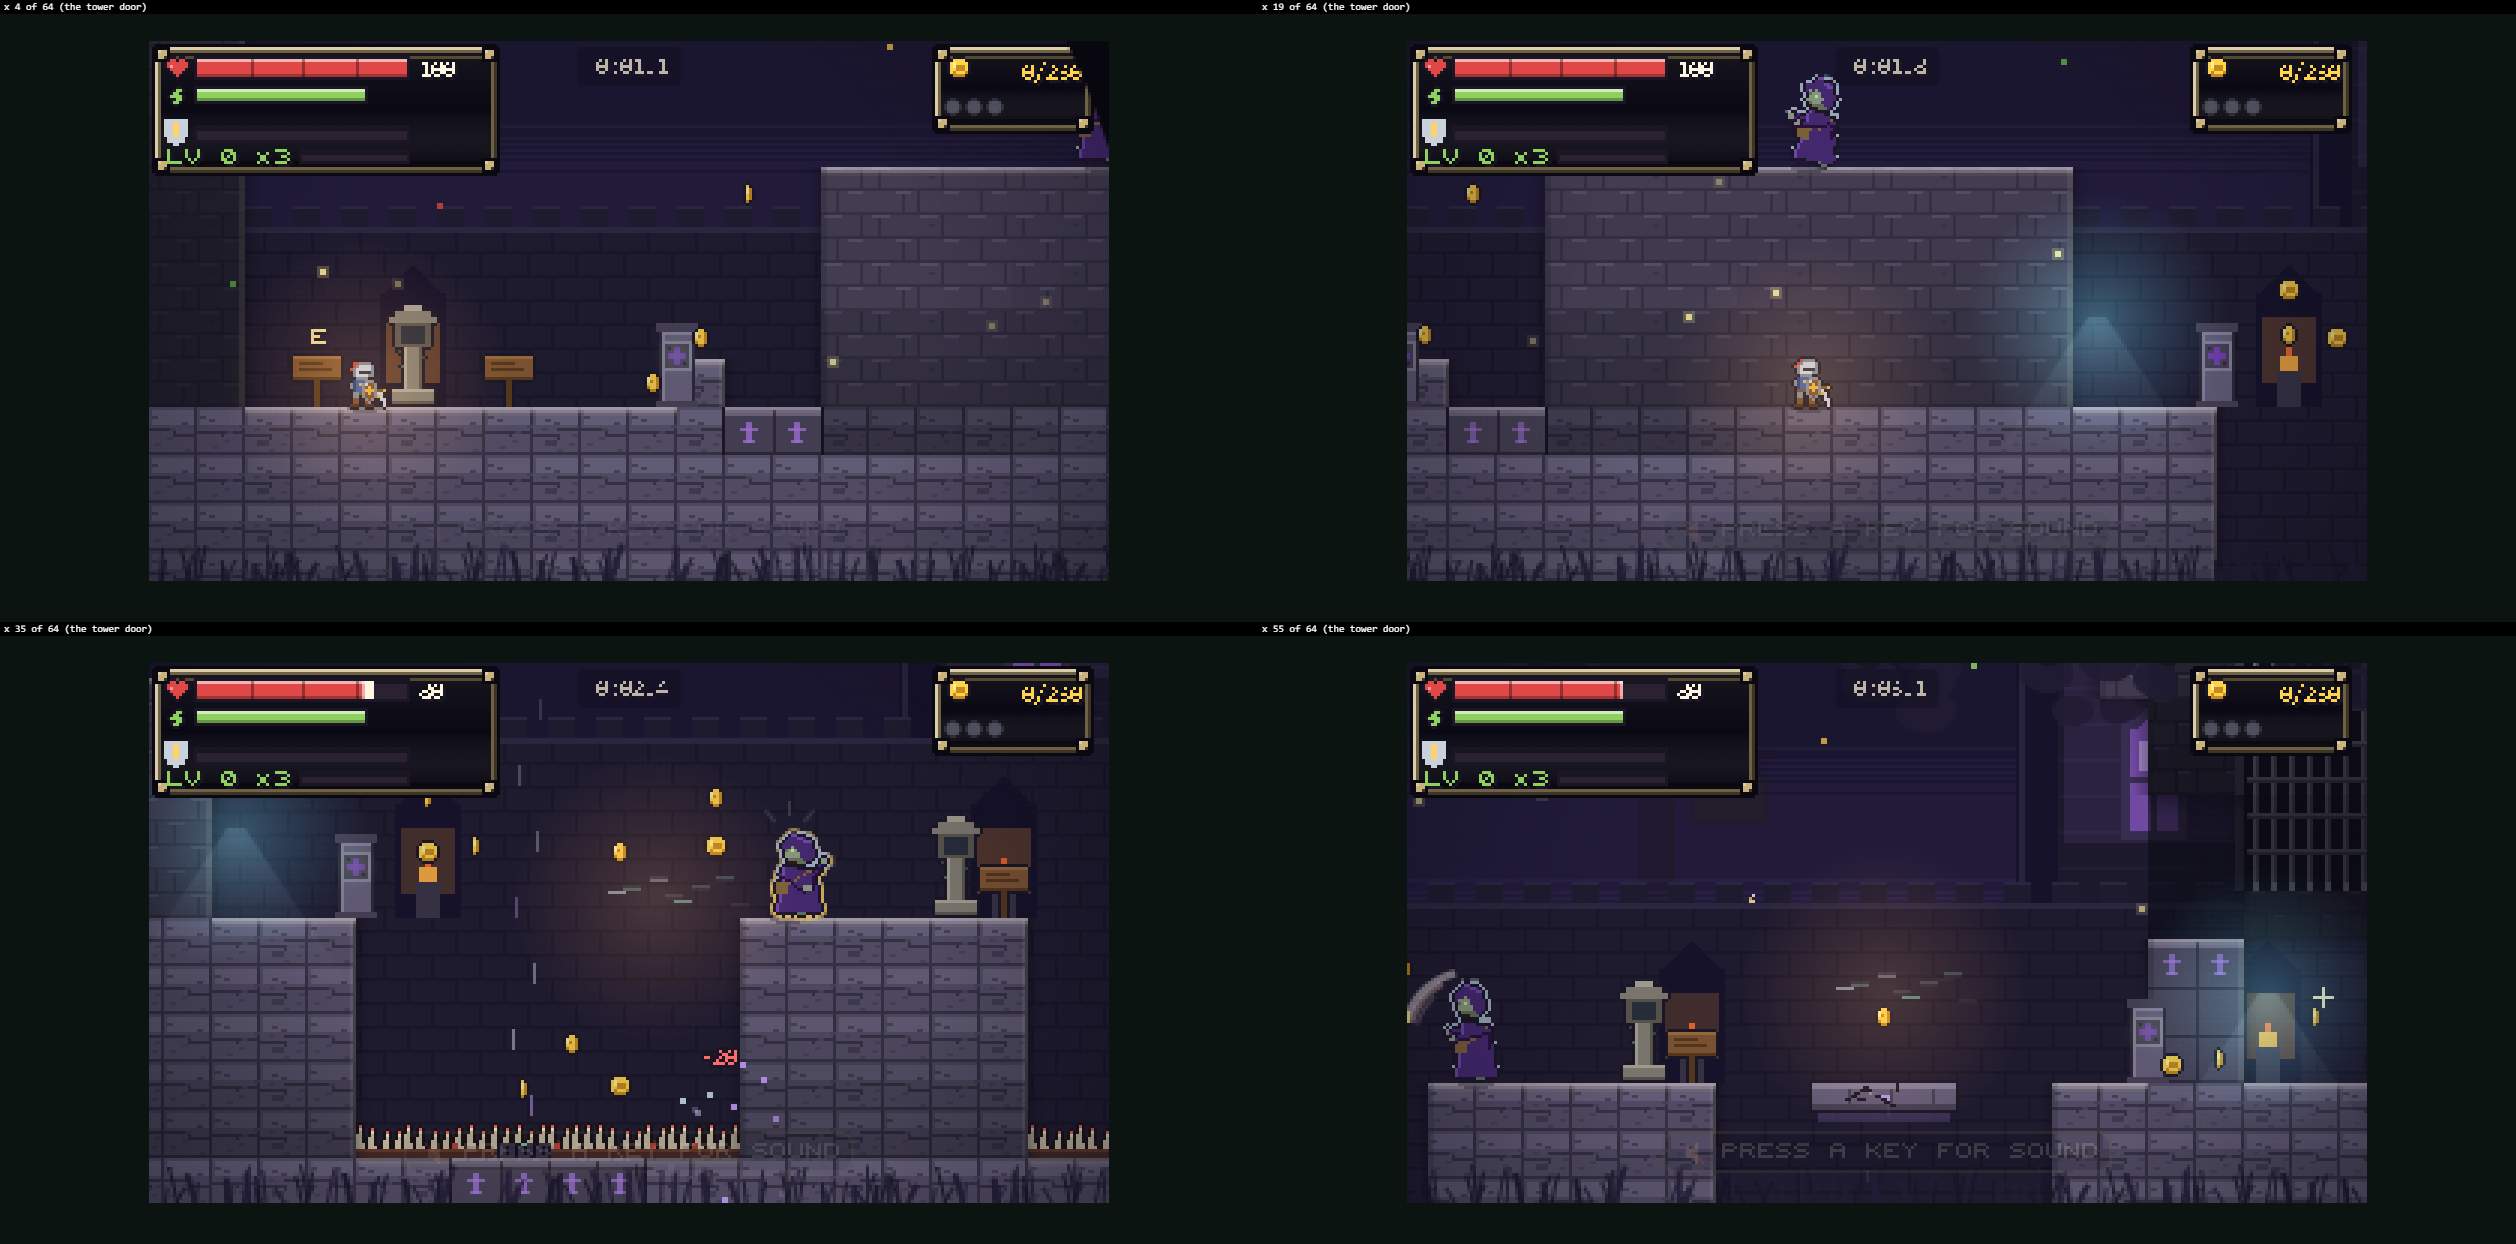
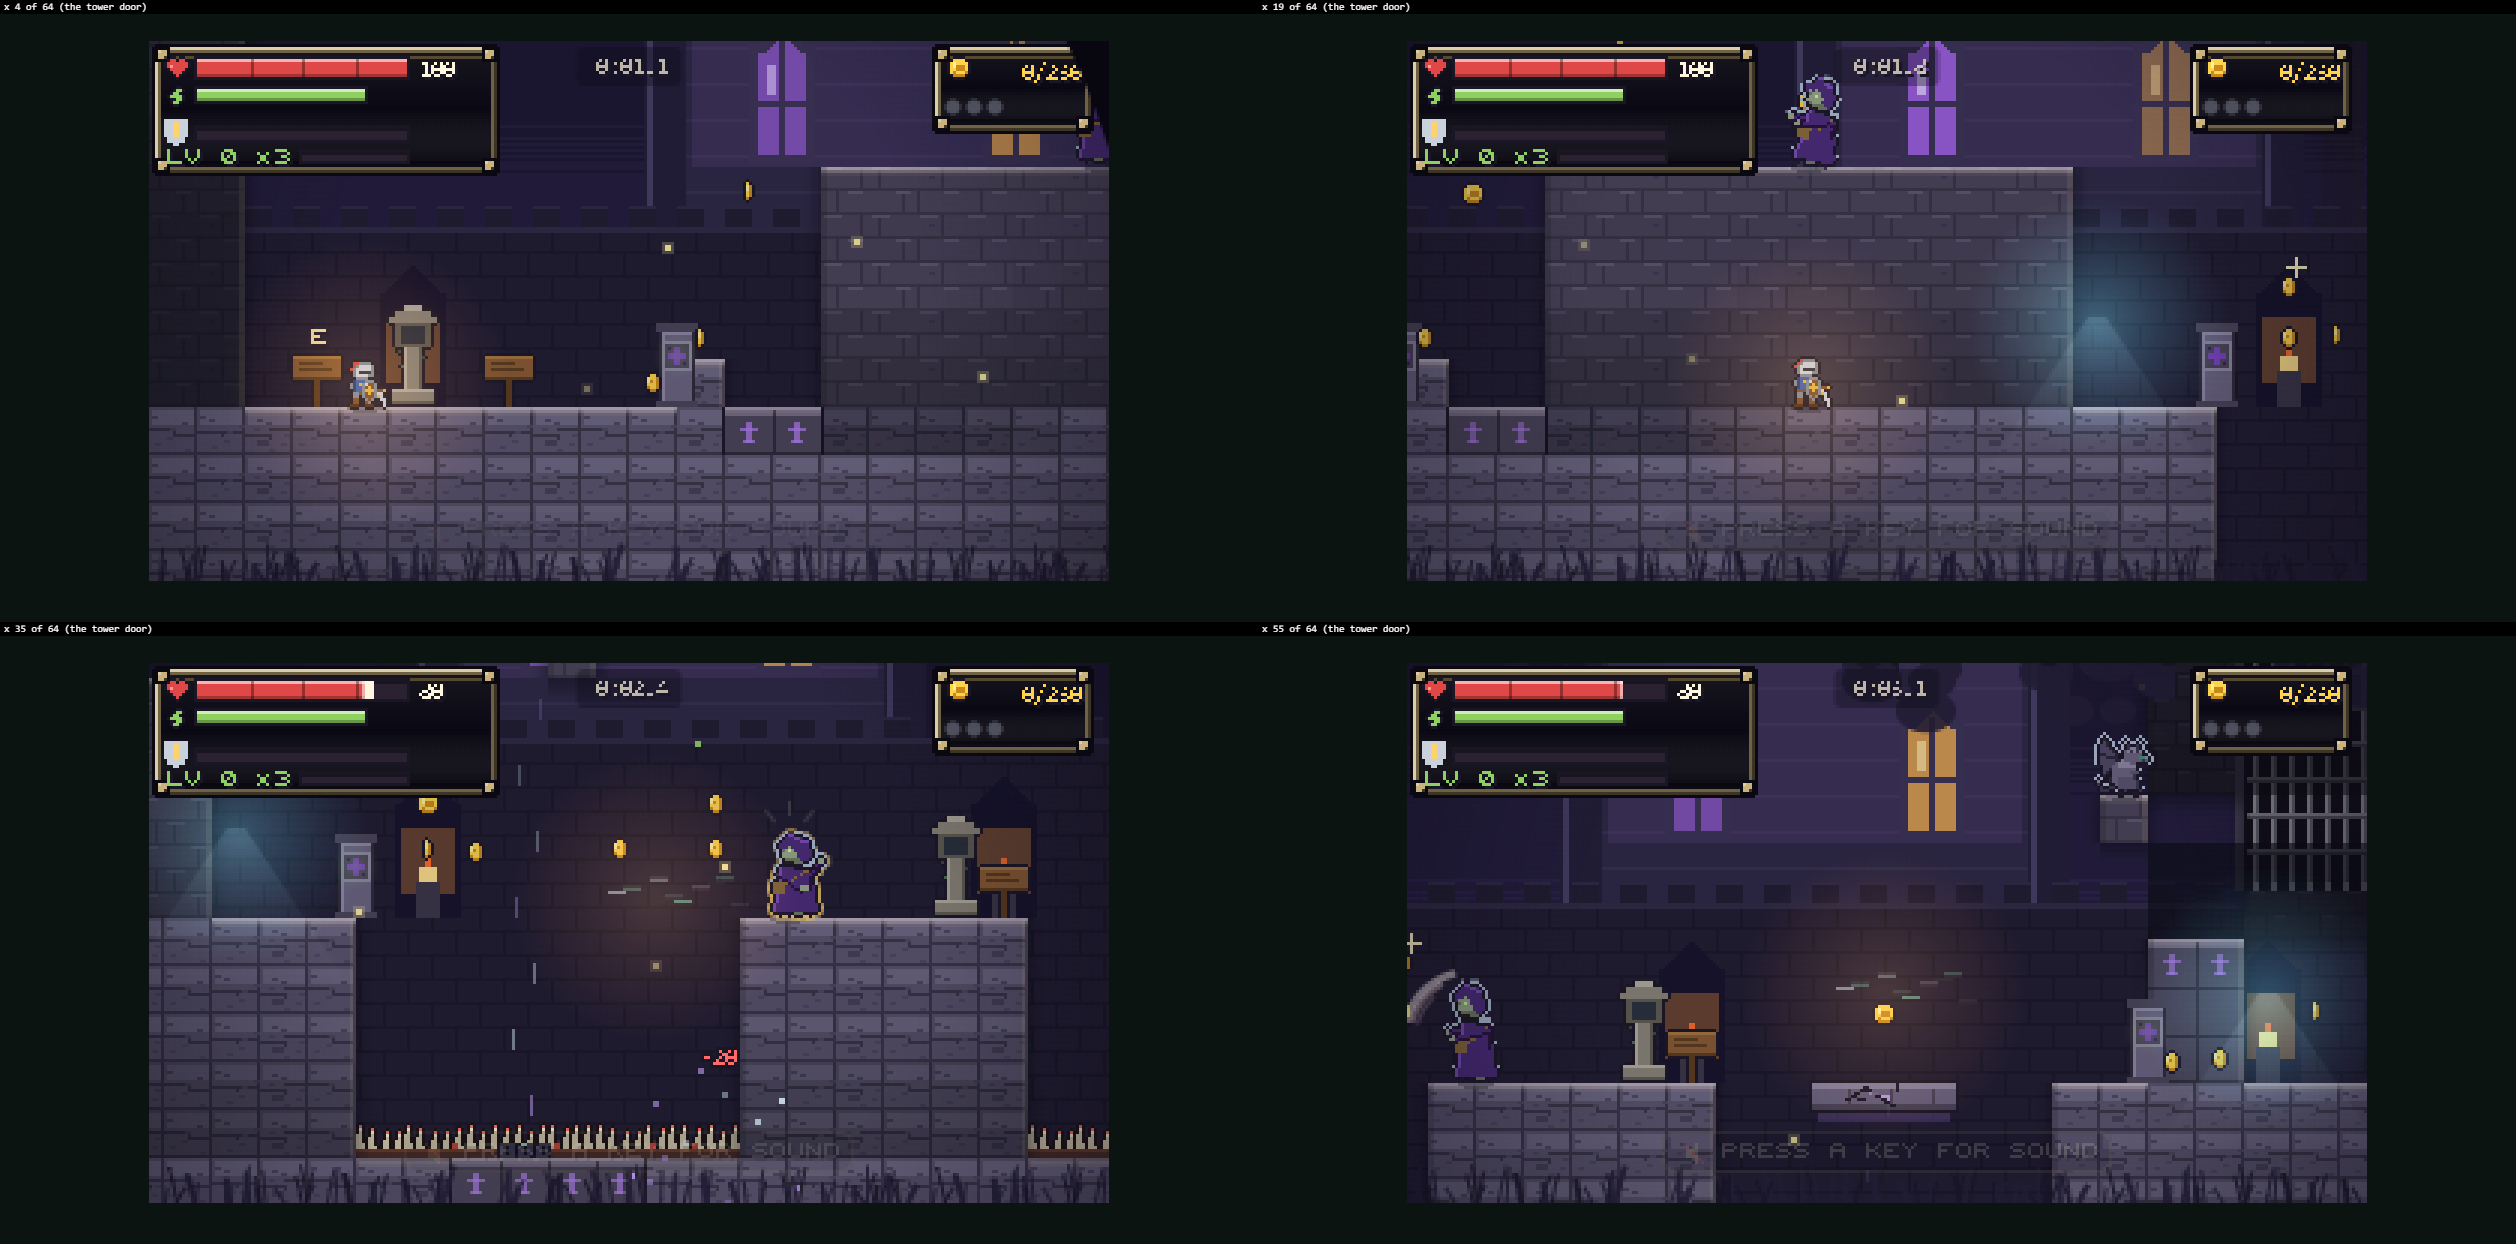
courtyard: the library sign fits two lines, the after capture, the lane report

diff --git a/src/level.js b/src/level.js
@@ -7239,7 +7239,7 @@ function theMagesFolly() {
   air(66, 207, 14, G - 1); air(64, 65, 36, G - 1);              /* the hall, and the front door */
   interiors.push([66, 207, 14, G - 1, 'library']);
   ent('check', 69, G - 1); deco('lectern', 71, G - 1);
-  sign(67, G - 1, 'THE LIBRARY. THE RUNES WORK IN HERE TOO, ON WHOLE STACKS OF BOOKS. THE BOOKS FLY: RIDE THEM.');
+  sign(67, G - 1, 'THE LIBRARY. THE RUNES WORK IN HERE TOO, ON WHOLE STACKS. THE BOOKS FLY: RIDE THEM.');
   /* THE STACKS: two runeshelves in the way, built slid (the recess above holds them in the grid), down at load */
   block(73, 74, G - 2, G - 1); block(77, 78, G - 4, G - 1);     /* shelves to climb, two rows a step */
   coins([74, G - 4], [78, G - 6]);

diff --git a/work/claude/lane-done/claude-courtyard.md b/work/claude/lane-done/claude-courtyard.md
@@ -1,0 +1,126 @@
+# Lane claude/courtyard: THE WARDED COURTYARD (the Mage's Folly's new opening) and the common whelp's fireball, done
+
+Branch `claude/courtyard`, off claude/gargoyle5 efac5d7 (master 05deabe + the Gate Gargoyle's two fireballs). origin/master had not moved
+past that when I fetched at the end, so nothing needed merging. Nothing is merged into master and nothing is deployed.
+
+## What changed
+
+### 1. THE WARDED COURTYARD replaces THE OVERGROWN GROUNDS (`src/level.js`, theMagesFolly)
+- **The hedge maze, topiary lawn, wall hedge, gatekeeper's stall and breach are gone** (old x 0-117, 118 columns).
+- **The new courtyard is x 0-63 (64 columns).** The tower's front door is now column 64 (it was 118).
+- **The level is shorter: W 712 -> 658.** Everything after the courtyard moved **54 columns left** (see "The column shift" below).
+- It teaches the tower's rule outdoors: **strike a rune and the paving slides.** There are three beats:
+  - **TAUGHT: THE WARDED STEP (x 7-24).**
+    - A terrace five rows high: one row too high for any hero to jump.
+    - A rune on a warding post (x 10) slides a paving slab out of the floor (x 12-13) up to row G-3.
+    - That gives a stair of two rows a step: mounting block (x 11), then the slab, then the terrace.
+    - The first dead apprentice stands on the terrace.
+  - **DEVELOPED: THE WARDED BRIDGE (x 26-40).**
+    - The yard's drain is 8 columns wide and 4 rows deep, with spikes at the bottom. It is too wide for any jump.
+    - The drain is a wind zone (`src/spike-winds.js`, as on the Witchlight Stair). A fall costs one bite, and the wind brings you back to the near lip.
+    - The rune on the lip (x 27) raises a **one-way** slab (x 30-33) out of the ground under the spikes to floor level. That leaves two jumps of 2 tiles.
+    - The slab is `sunk`: the ground stays whole under the spikes after it rises, so there is no pocket to fall into.
+    - A whelp sits on a corbel right over the drain (x 32). With you on the bridge, it dives *through* the one-way slab and sticks on the spikes. Stomp it there, and the wind lifts you with no bite.
+    - An apprentice on the far lip (x 38) throws while you cross.
+  - **COMBINED: THE BARRED GATE AND ITS WARDED POSTERN (x 41-63).**
+    - The gatehouse (x 51-57) is kept, barred, with a portcullis drawn down on its face (`L.mage.portcullis`) and the sign "THE GATE IS BARRED AND WILL STAY BARRED".
+    - The way through is the **postern**: a 3-row stack of slabs across a passage at floor level. Its rune (x 50) slides it up into the wall. This is the "path".
+    - In front of it is a gate ditch: spikes and a wind zone, x 42-48, crossed on a **cracked ledge** (x 44-46) under a whelp on the gatehouse's corbel (x 50). Leave the ledge late and the whelp dives through it and sticks on the spikes.
+    - A last apprentice waits at the tower door (x 61).
+- **Foes in section 1: before, 13** (7 topiary, 3 imps, 3 brooms). **After, 5:** 3 apprentices and 2 whelps, all placed by hand. The whole yard is `calm`, so nothing is sprinkled into it.
+- **Checkpoints in the yard:** before 6, 47, 79, 114. After: 5 and 40, then the library's (69).
+- **The library now DEVELOPS the rule.** Its sign reads "THE RUNES WORK IN HERE TOO, ON WHOLE STACKS..." instead of introducing it.
+- **The runes reuse the library's machinery.** A new `ward()` helper builds a runeshelf in paving stone, with its rune on a post. In main.js the shelves gained three things:
+  - `tile`: what the slab becomes once it is up (T.ONEWAY for the bridge);
+  - `sunk`;
+  - a `post` flag on the rune prop.
+
+  Their art (a paving slab with a cut rune that goes cold once it has moved, and the warding post) and a new "THE PAVING MOVES" hint are in main.js.
+
+### 2. The backdrop
+- **Before:** the Folly's redress drew the *library shelving* behind the outdoor grounds (see `work/courtyard/before.png`).
+- **After:** the yard gets its own backdrop, `drawCourtyardBack` in `src/tower-ascent.js`, drawn only before the door:
+  - **the tower** rising ahead on a slow parallax, with buttresses, courses, lit violet and warm windows, and a faint violet glow in its stone;
+  - **the yard's crenellated back wall**, with an arch and a lit brazier every 12 tiles, carried down behind the drain and the ditch.
+- The yard is paved: a new `paving` skin in `src/redraw/mage_world.js`.
+
+### 3. The common whelp's ONE fireball (`src/gargoyle-whelp.js`, main.js updateWhelp)
+- **The numbers** (`WH.ball`): 78 px/s, radius 4, 6 damage, a 0.8 s tell, one ball.
+- **The Gate Gargoyle's, unchanged:** 90 px/s, radius 6, 10 damage, a 1.1 s tell, two balls. His are still two (asserted).
+- **The tell** is the new `fireTell`, with a yellow `!`. `tells.mjs --write` added `whelp|fireTell: '!'`, and the tell is also in `windingUp`. The whelp rears back on its perch in a new pose (frame 9, "spit"), and fire gathers in its jaws, drawn growing to the throw. It throws in the crouch frame.
+- **The ball** is his: the Gate Gargoyle's `stepBall` gained an optional spec, and the ball drawing was split out as `drawBall`, so both share one set of rules:
+  - a shield takes it;
+  - a dodge roll passes through it;
+  - stone or a slab breaks it.
+- **The answer tag:** the ball hurts as `damagePlayer(..., { who: whelp, blow: 'THE FIREBALL' })`, so the death line reads "GARGOYLE WHELP THE FIREBALL - YELLOW: THE SHIELD TURNS IT".
+- **Its AI:**
+  - It **spits** when it sees you but you are past its dive (`WH.ball.sight`: 200 px along, and up as well as down).
+  - It **dives** when you are in reach.
+  - After a dive, its next attack is a spit if it can spit. So it alternates and is never only one thing.
+  - Whelps the Gate Gargoyle calls follow the same rule.
+- **Where it applies:** every whelp, including the Witchlight Stair's eight and the Gargoyle's called ones.
+- **Bestiary:** "...Out of its reach it spits one small fireball instead; a shield takes it." `textfit bestiary --strict`: 0 findings.
+
+### 4. Every whelp over spikes
+- **Folly:** both yard whelps sit over a wind zone's spikes, with footing they dive through onto them (the one-way bridge, the cracked ledge).
+- **Witchlight:** all 8 whelps already sit over the moat's wind-zone spikes. The new check asserts it.
+
+## The column shift (-54 from the library on)
+- Every column literal in theMagesFolly from section 2 on was moved by a script, outside strings: 470 numbers, including the section headers' "(x ...)" comments. Examples:
+  - library 118-262 -> 64-208
+  - lab 263-380 -> 209-326
+  - orrery 381-500 -> 327-446
+  - flip floor 501-590 -> 447-536
+  - observatory 591-655 -> 537-601
+  - study/arena 656-700 -> 602-646 (arena x0 657 -> 603, trigger 662 -> 608)
+  - mini gate 262 -> 208
+  - ambush walls 218/234 -> 164/180
+  - `mage.dais / flood / stacks / weight / cage / hung` and `outside` 118 -> 64
+  - noCoin, calm, weather and ambient ranges
+- **Hard-coded columns outside the function:**
+  - `src/level.js` ELITES `mage: armour 408 -> 354`.
+  - `src/tower-ascent.js` polishTower: the tower skin started at the literal 118 and now reads `L.mage.outside`. The deco filter `e.x >= 118` now uses the same door column. The alchemy-lab sign was found by `e.x === 268` and is now found by its text.
+- **Checks that named Folly columns:**
+  - `tools/tower-ascent.mjs:154`: the skin at `118` becomes `m.mage.outside`, asserted to be 64.
+  - `tools/fixtures/folly-browser.js` (run by folly-runtime): the shot columns 170/278/600 become 116/224/546.
+- Nothing else in `tools/` or `src/` names a Folly column. I grepped for `'mage'`, `.mage`, the old boundary columns, and every tool naming mage, folly, archmage, tower, whelp or witchlight.
+
+## Checks (each run by name; the full suite was not run)
+- **New `courtyard`**, added to check.mjs's list. It has 26 soft assertions:
+  - the yard's size and the shifted rooms;
+  - the three slabs' shapes, including the unjumpable terrace and drain;
+  - the runes on posts;
+  - the barred gate kept;
+  - the library sign;
+  - every whelp on both levels over wind-zone spikes, and the yard whelps over dive-through footing;
+  - the ball smaller, weaker and no faster than his, with his still two;
+  - the `!` mark and the pose;
+  - **on the page:**
+    - each rune struck moves its slab (new place footing, old place open);
+    - a whelp over the bridge dives through it, sticks, is stomped, and the wind lifts you with no bite;
+    - past its dive it spits one told ball that hurts less than one of his;
+    - a knight's shield takes it (0);
+    - a Witchlight whelp spits too.
+- **Red on the base:** in a throwaway `git worktree` of efac5d7 (no stash), 16 Node assertions fail and then the page part throws.
+- **Green:** courtyard, whelps, gargoyle-stomp, gargoyle-playtest, witchlight, tells, boss-fight-end (45 fights end), checkpoints, checkpoint-stand, checkpoint-gaps, architecture, skins, dangling-paths, npc-removal, slopes-trace (every frame identical: no rebase), tower-ascent, folly-runtime, archmage-room, killzones, deadends, elites, spawns, traps, signs, collectables, threat-holes, one-new-foe, mini-walls, additional-areas, content-audit, comments, homepaths, and `node tools/textfit.mjs bestiary --strict`.
+- **signs failed once:** the new library sign ran to three lines, so it was shortened.
+- **killzones failed once and was fixed:** the bridge slab's empty bed under the drain's spikes was a reachable spike tile. That is why the bridge is now `sunk`.
+- No `answer-tags` check exists in tools/.
+
+## Capture
+- Before and after, from the real page: `work/courtyard/before.png` and `work/courtyard/after.png`, made by `tools/courtyard-shots.mjs` (not in the suite).
+- Each sheet has four panels across section 1.
+- **After:** the paved yard, the post and the step slab, the drain with the sunk bridge under its spikes, the gate ditch with the cracked ledge, the corbel whelp, the portcullis, and the tower's windows over the yard wall.
+
+## UNVERIFIED
+- Nobody has played it by hand. No pilot was run: no boss changed.
+- The whelp's alternation (dive, then spit) was checked in scripted cases only.
+- The backdrop tower's flicker uses `performance.now` and was seen only in stills.
+- MEDALS.mage (660/920/1300) was left as it was, although the level is 54 columns shorter.
+
+## QUESTIONS FOR DANIEL
+1. **The yard is 64 columns with three beats: step, bridge, postern.** *Recommendation: play it as is.* If it feels short, the forecourt (x 58-63) can take a fourth beat that combines two slabs.
+2. **The whelp spits past its dive and alternates after a dive.** *Recommendation: keep it.* If whelps feel too busy on the Witchlight Stair, make them spit only when you are out of dive reach (one line in updateWhelp).
+3. **Its fireball: 6 damage, r 4, 78 px/s, a 0.8 s tell.** *Recommendation: keep it.* It is clearly lesser than his 10 / r 6 / 90 / 1.1 x2.
+4. **The garrison list still names 'topiary' (5)** for the tower's sprinkled foes, although their hedge maze is gone. The yard itself is calm. *Recommendation:* drop topiary from GARRISON.mage in a later pass. I did not touch it, because tools/curve.mjs owns those numbers.
+5. **Medal times for the Folly:** the level lost 54 columns and gained three rune beats. *Recommendation:* leave them until a timed run.
